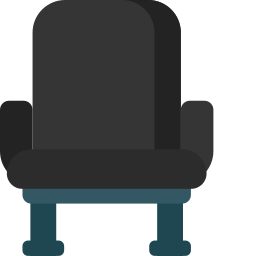
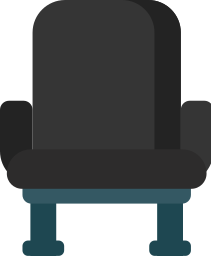
finishing tooltip and organazing functions

diff --git a/mandango/src/index.js b/mandango/src/index.js
@@ -7,7 +7,7 @@ const seats = [
 ]
 
 const seatsDiv = document.querySelector('#seats-div')
-initializeSeats()
+window.onload(initializeSeats())
 
 function initializeSeats() {
     for (let i = 0; i < seats.length; i++) {
@@ -15,7 +15,7 @@ function initializeSeats() {
         div.id = `seat-collum-${i}`
         seatsDiv.appendChild(div)
         const divCollum = document.querySelector(`#seat-collum-${i}`)
-        
+
         for (let j = 0; j < seats[i].length; j++) {
             const div = document.createElement("div")
             const img = document.createElement("img")
@@ -31,7 +31,6 @@ function initializeSeats() {
             span.textContent = seats[i][j] ? 'Indisponível' : 'Disponível'
 
             divCollum.appendChild(div)
-
             const actualSeatDiv = document.querySelector(`#seat-${i}-${j}-div`)
 
             actualSeatDiv.appendChild(span)
@@ -49,27 +48,27 @@ function findMachoSeats() {
 
                 if (response) {
                     for (let x = j; x <= j + 2; x++) {
-                        const selectedSeat = document.querySelector(`#seat-${i}-${x}`)
-                        selectedSeat.src = './images/seat-selected.png'
-                        selectedSeat.alt = 'Reservada'
-
-                        const selectedSeatTooltip = document.querySelector(`#seat-${i}-${x}-div > span`)
-                        selectedSeatTooltip.textContent = 'Reservada'
-
+                        reserveSeats(i, x)
                     }
 
-                    return
-                }
-                else {
-                    for (let x = j; x <= j + 2; x++) {
-                        const selectedSeat = document.querySelector(`#seat-${i}-${x}`)
-                        selectedSeat.src = './images/seat-available.png'
-                        selectedSeat.alt = 'Disponível'
-                    }
+                    return;
                 }
             }
         }
     }
 
     alert('Desculpe, não temos mais cadeiras disponíveis.')
+}
+
+function reserveSeats( axisX, axisY) {
+
+        seats[axisX][axisY] = true;
+
+        const selectedSeat = document.querySelector(`#seat-${axisX}-${axisY}`)
+        selectedSeat.src = './images/seat-selected.png'
+        selectedSeat.alt = 'Reservada'
+
+        const selectedSeatTooltip = document.querySelector(`#seat-${axisX}-${axisY}-div > span`)
+        selectedSeatTooltip.textContent = 'Reservada'
+
 }

diff --git a/mandango/src/index.css b/mandango/src/index.css
@@ -1,3 +1,11 @@
+:root {
+    --purple-light: rgb(58, 53, 83);
+    --purple-dark: rgb(51, 47, 74);
+    --gray:  rgb(105, 105, 105);
+    --white: rgb(235, 232, 232);
+    --tooltip-background: rgba(105, 105, 105, 0.7);
+}
+
 * {
     margin: 0;
 }
@@ -10,7 +18,7 @@ body {
 
     min-height: 100vh;
 
-    background: linear-gradient(180deg, rgba(46, 42, 69, 1) 0%, rgba(51, 47, 74, 1) 85%, rgba(105, 105, 105, 1) 100%);
+    background: linear-gradient(180deg, var(--purple-light) 0%, var(--purple-dark) 85%, var(--gray) 100%);
 }
 
 #seats-div {
@@ -23,14 +31,27 @@ body {
     flex-direction: row; 
 }
 
+#seats-div > div > div {
+    display: flex;
+    justify-content: center;
+    align-items: center;
+
+    padding: 10px;
+}
+
 #seats-div > div > div > img {
-    width: 100px;
+    width: 80px;
    
 }
 
 #find-seats {
     margin-top: 40px;
     padding: 10px 15px;
+    border-radius: 10px;
+
+    color: var(--white);
+    background: var(--purple-light);
+    border: 1px solid var(--white);
 }
 
 #seats-div > div > div > span {
@@ -39,10 +60,12 @@ body {
 
     font-size: 12px;
     padding: 5px;
-    background: rgba(105, 105, 105, 0.7);
-    color: #000;
+    background: var(--tooltip-background);
+    color: var(--white);
     border-radius: 10px;
-    margin-left: 7px;
+
+    margin-top: -80px;
+    
 }
 
 #seats-div > div > div:hover span {
